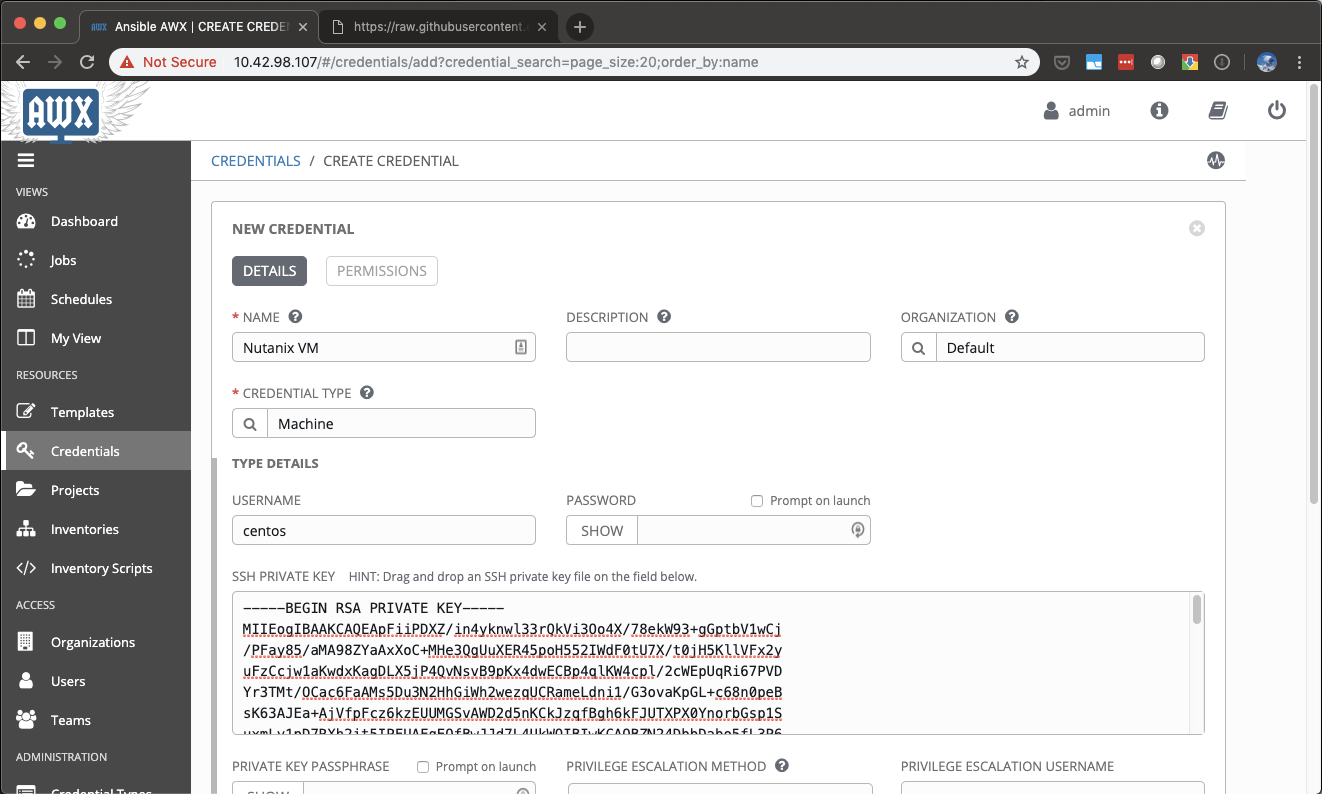
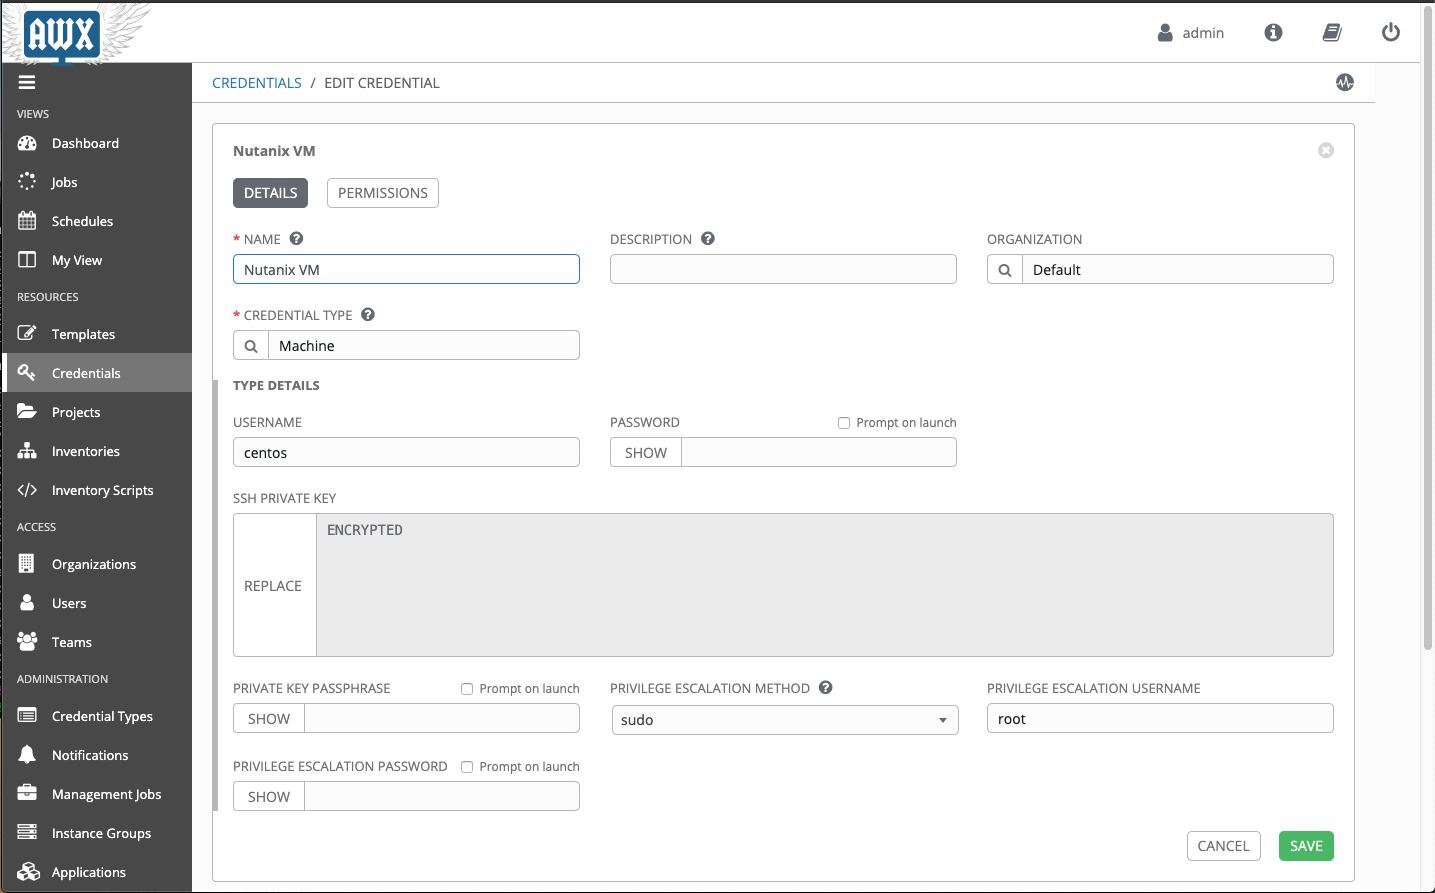
add yum to helloworld.yml

diff --git a/ansible/ansible-awx.rst b/ansible/ansible-awx.rst
@@ -105,6 +105,8 @@ AWX Integration
     - **CREDENTIAL TYPE** - *Machine*
     - **USERNAME** - *centos*
     - **SSH PRIVATE KEY** - *user your private key* or refer --> :ref:`ssh_key_priv`
+    - **PRIVILEGE ESCALATION METHOD** - *sudo*
+    - **PRIVILEGE ESCALATION USERNAME** - *root*
     - **Save**
 
     .. note:: USERNAME and Password/Private Key should be same with the credential in ``ansible-awx-managed-vm`` blueprint
@@ -119,8 +121,8 @@ AWX Integration
 
         .. figure:: images/awx-proj2.png
 
+        - Prefer URL - `https://github.com/panlm/myansible.git`
         - Default URL - `https://github.com/ansible/ansible-tower-samples`
-        - Alternative URL - `https://github.com/panlm/myansible.git`
 
     - Click **JOB TEMPLATES**
 
